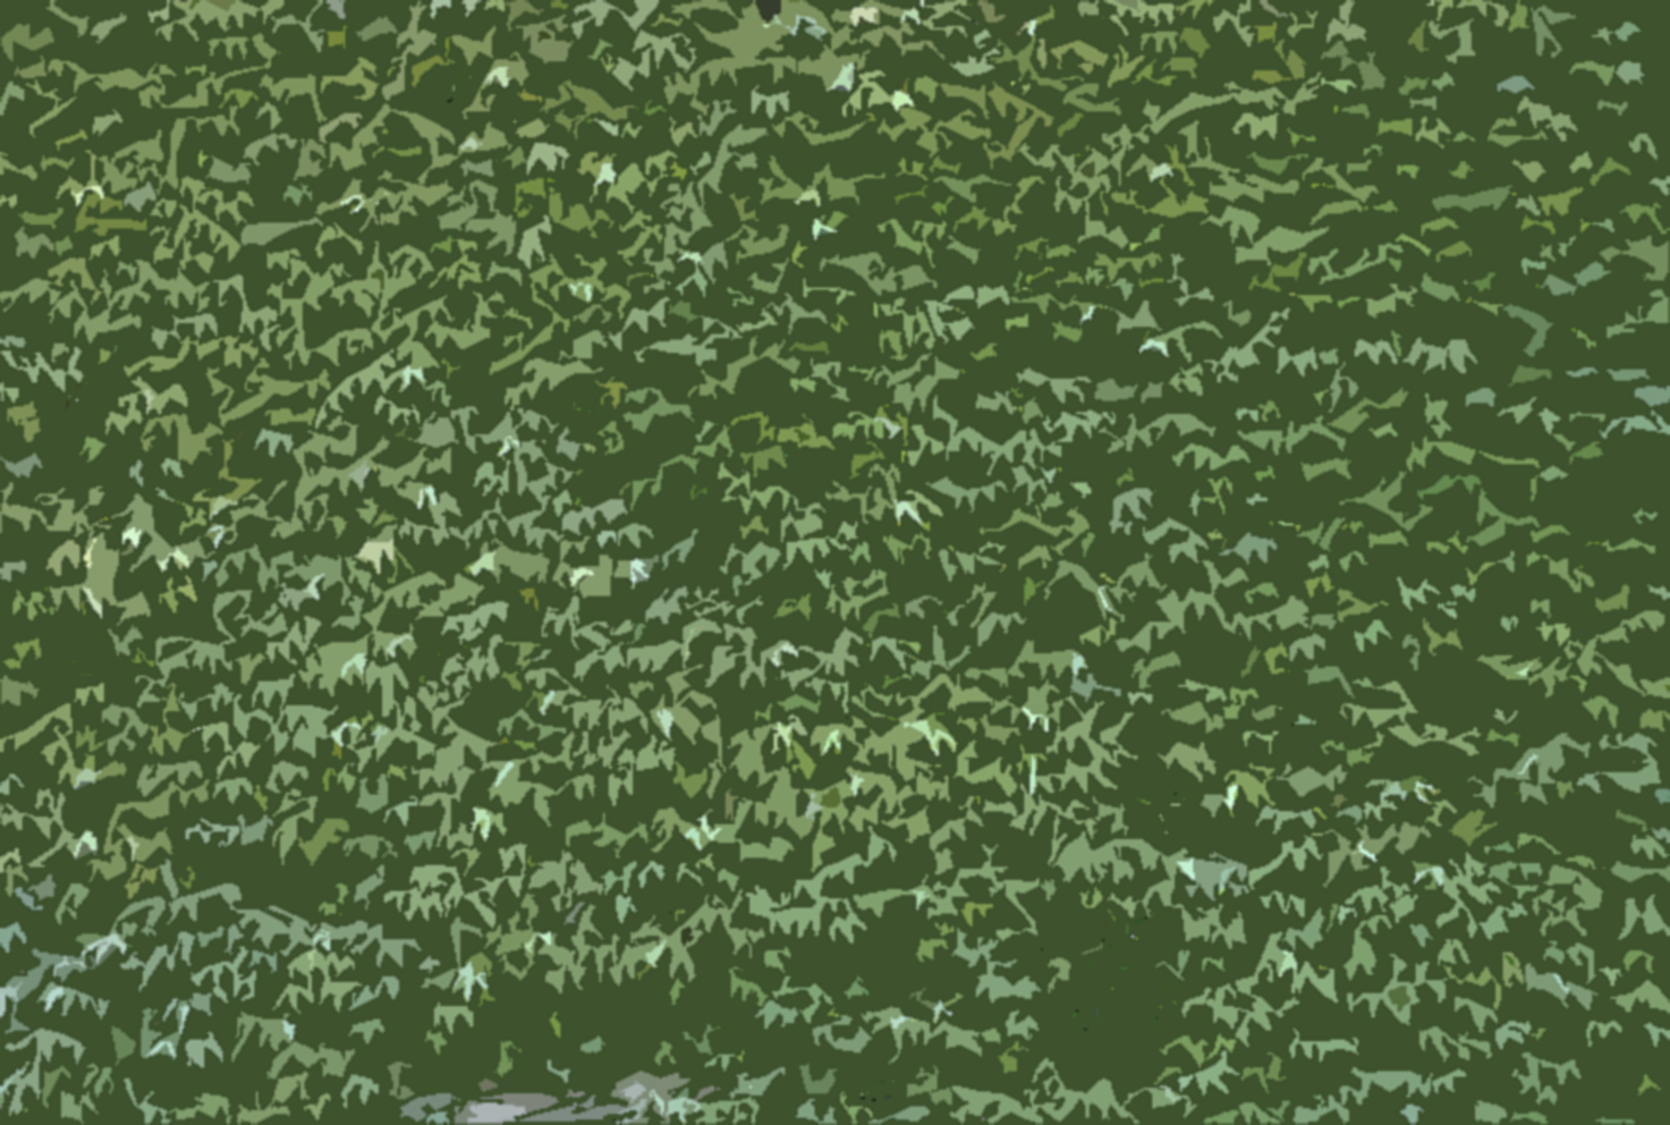
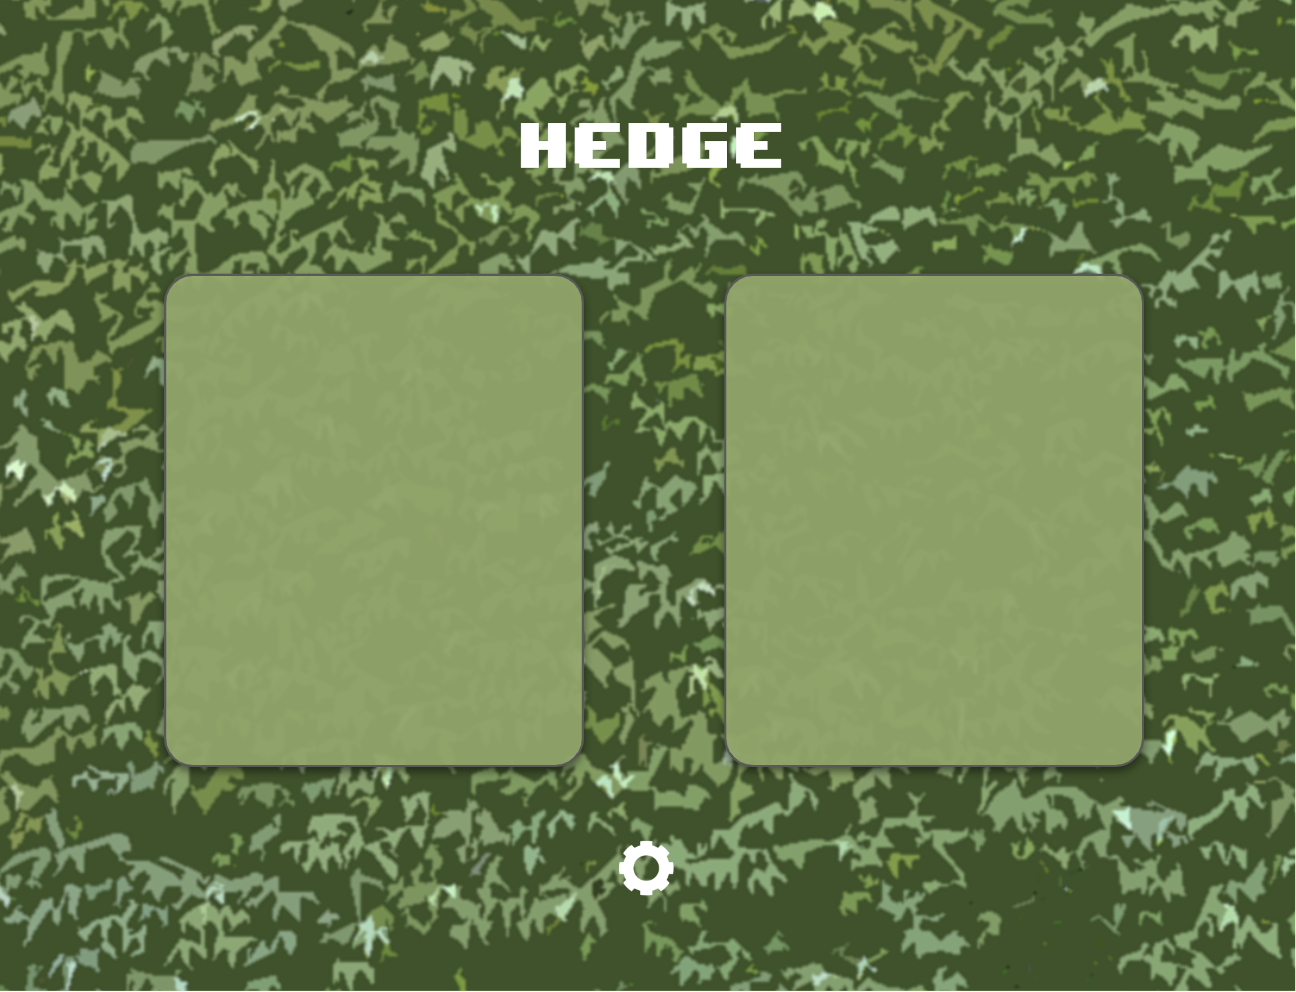
gui

diff --git a/main.py b/main.py
@@ -12,6 +12,8 @@ class Page(ctk.CTkFrame):
 class mainMenu(Page):
     def __init__(self, controller, *args, **kwargs):
         Page.__init__(self, *args, **kwargs)
+        global cur_page
+        cur_page = 'mainMenu'
 
         frame1 = ctk.CTkFrame(self)
         frame1.grid(row=0, column=0, sticky='nsew')
@@ -20,58 +22,48 @@ class mainMenu(Page):
         bg1label = ctk.CTkLabel(frame1, image = bg1, text = '')
         bg1label.grid(row=0, column=0)
 
-        settingsX = 410
-        settingsY = 610
-
+        mm_settingsX = 410
+        mm_settingsY = 610
+        ms_settingsX = 450
+        ms_settingsY = 610
         quitX = 485
         quitY = 610
 
         def modeSelection_button():
-            page_stack.append('modeSelection')
-            print(page_stack)
+            global cur_page
+            cur_page = 'modeSelection'
+            page_stack.append('mainMenu')
             controller.pages['modeSelection'].show()
             
         def check_position(event):
-            print( f'x: {event.x}, y: {event.y}' )
+            print( f'x: {event.x}, y: {event.y}')
             if page_stack == []:
-                if event.x >= settingsX - 20 and event.x <= settingsX + 20 \
-                and event.y >= settingsY - 20 and event.y <= settingsY + 20:
+                if event.x >= mm_settingsX - 20 and event.x <= mm_settingsX + 20 \
+                and event.y >= mm_settingsY - 20 and event.y <= mm_settingsY + 20:
                     page_stack.append('mainMenu')
-                    print(page_stack)
                     controller.pages['settings'].show()
                 elif event.x >= quitX - 20 and event.x <= quitX + 20 \
                 and event.y >= quitY - 20 and event.y <= quitY + 20:
-                    if askyesno(title='Confirmation', message='Are you sure that you want to quit?') == True:
+                    if askyesno(title='Confirmation', message='Are you sure you want to quit?') == True:
                         root.destroy()
-            else:
-                if event.x >= settingsX - 20 and event.x <= settingsX + 20 \
-                and event.y >= settingsY - 20 and event.y <= settingsY + 20:
+            if cur_page == 'modeSelection':
+                if event.x >= ms_settingsX - 20 and event.x <= ms_settingsX + 20 \
+                and event.y >= ms_settingsY - 20 and event.y <= ms_settingsY + 20:
+                    page_stack.append('modeSelection')
                     controller.pages['settings'].show()
 
         root.bind('<Button-1>', check_position)
 
         modeSelection_image = ctk.CTkImage(Image.open("assets/modeSelection.png"), size=(95, 20))
-
-        modeSelection_button = ctk.CTkButton(frame1, 
-                                             width=170,
-                                             height=50,
-                                             fg_color='#98a778',
-                                             background_corner_colors=('#304c29','#35502c','#59743e','#59743e'),
-                                             hover_color='#59743e',
-                                             corner_radius=8,
-                                             border_width=2,
-                                             border_color='#FFFFFF',
-                                             text='', image=modeSelection_image, command=modeSelection_button)
-
+        modeSelection_button = ctk.CTkButton(frame1, width=170, height=50, fg_color='#98a778', background_corner_colors=('#304c29','#35502c','#59743e','#59743e'), hover_color='#59743e', corner_radius=8, border_width=2, border_color='#FFFFFF', text='', image=modeSelection_image, command=modeSelection_button)
         modeSelection_button.grid(row=0, column=0, sticky='s', pady=(0,275))
 
 class settings(Page):    
     def __init__(self, controller, *args, **kwargs):
         Page.__init__(self, *args, **kwargs)
+
         label = ctk.CTkLabel(self, text="Settings")
         label.grid(row=0, column=0)
-
-        print(f'settings {page_stack}')
 
         def back_button():
             previous_page = page_stack.pop()
@@ -83,7 +75,8 @@ class settings(Page):
 class modeSelection(Page): #selects singleplayer or multiplayer
     def __init__(self, controller, *args, **kwargs):
         Page.__init__(self, *args, **kwargs)
-
+        global cur_page
+        
         frame = ctk.CTkFrame(self)
         frame.grid(row=0, column=0, sticky='nsew')
 
@@ -91,26 +84,31 @@ class modeSelection(Page): #selects singleplayer or multiplayer
         bg1label = ctk.CTkLabel(frame, image = bg2, text = '')
         bg1label.grid(row=0, column=0)
 
-        frame1 = ctk.CTkFrame(frame)
-        frame1.grid(row=0, column=0)
-
-        label = ctk.CTkLabel(frame1, text="Mode Selection")
-        label.grid(row=0, column=1, padx=10, pady=10, sticky='nsew')
-
         def spOptions_button():
             controller.pages['spOptions'].show()
             
         def mpOptions_button():
             controller.pages['mpOptions'].show()
 
-        settingsX = 410
-        settingsY = 610
-            
-        spOptions_button = ctk.CTkButton(frame1, text="Single Player", command=spOptions_button)
-        mpOptions_button = ctk.CTkButton(frame1, text="Multi Player", command=mpOptions_button)
+        def back_button():
+            global cur_page
+            cur_page = 'settings'
+            previous_page = page_stack.pop()
+            controller.pages[previous_page].show()
+        
+        back_button = ctk.CTkButton(frame, height=40, fg_color='#98a778', hover_color='#59743e', corner_radius=8, border_width=2, border_color='#FFFFFF', text="BACK", command=back_button)
 
-        spOptions_button.grid(row=1, column=0, padx=10, pady=10, sticky='nsew')
-        mpOptions_button.grid(row=1, column=2, padx=10, pady=10, sticky='nsew')
+        back_button.grid(row=0, column=0, padx=(0,520), pady=(0,494))
+        
+        spOptions_image = ctk.CTkImage(Image.open("assets/sp_button.png"), size=(245,245))
+        mpOptions_image = ctk.CTkImage(Image.open("assets/mp_button.png"), size=(250,250))
+
+        spOptions_button = ctk.CTkButton(frame, width=290, height=346, corner_radius=20, fg_color='#82925e', hover_color='#606c46', background_corner_colors=('#3f522b','#3f522b','#839b61','#3f522b'), border_width=2, border_color='#c7ced7', text="", image=spOptions_image, command=spOptions_button)
+        mpOptions_button = ctk.CTkButton(frame, width=290, height=346, corner_radius=20, fg_color='#82925e', hover_color='#606c46', background_corner_colors=('#3f522b','#3f522b','#3f522b','#839b61'), border_width=2, border_color='#c7ced7', text="", image=mpOptions_image, command=mpOptions_button)
+
+        spOptions_button.grid(row=0, column=0, padx=(0,382), pady=(36,0))
+        mpOptions_button.grid(row=0, column=0, padx=(399,0), pady=(36,0))
+
 class spOptions(Page): #screen to select generation style and grid size for singleplayer
     def __init__(self, controller, *args, **kwargs):
         Page.__init__(self, *args, **kwargs)
@@ -176,9 +174,10 @@ class Window(ctk.CTkFrame): #create main window
     def __init__(self, *args, **kwargs):
         ctk.CTkFrame.__init__(self, *args, **kwargs)
 
-        global page_stack
+        global page_stack, cur_page
 
         page_stack = []
+        cur_page = ''
 
         #create a dictionary for all of the different selection pages
         self.pages = {}
